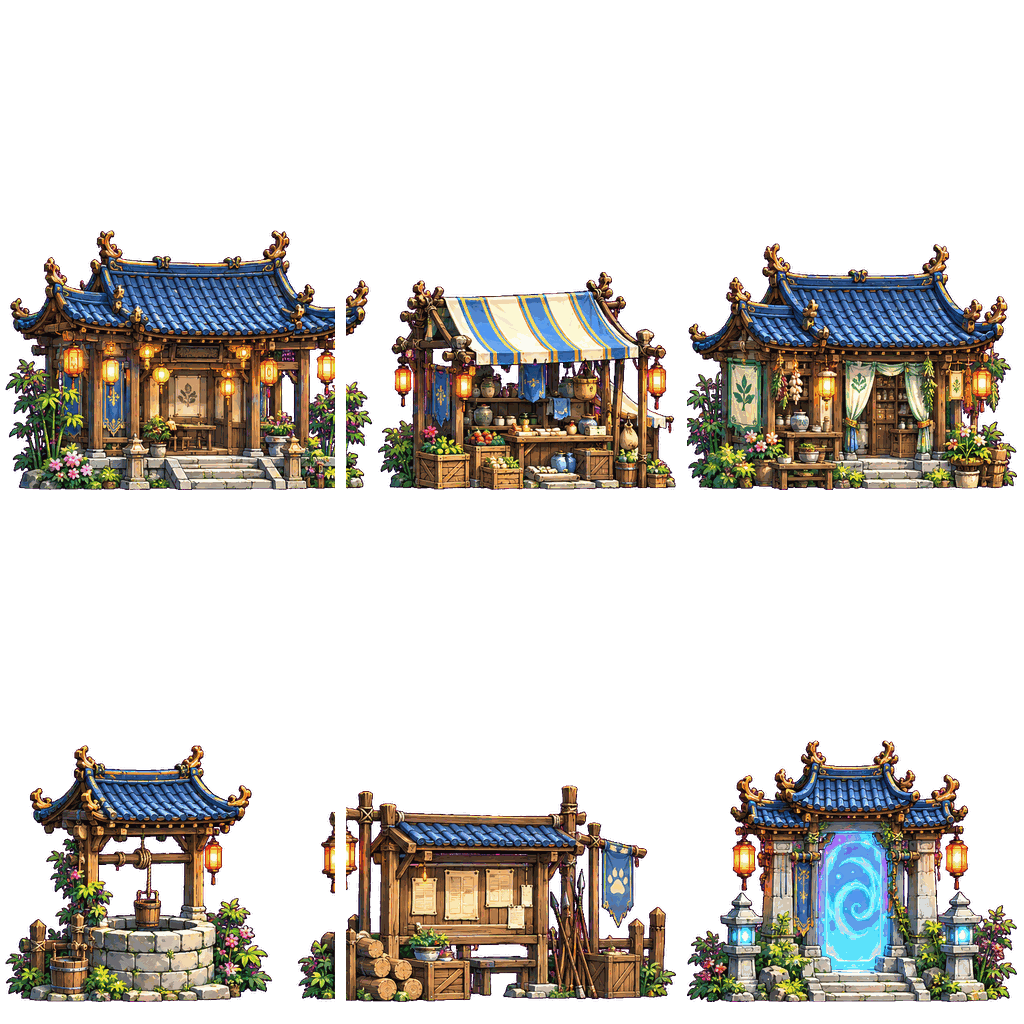
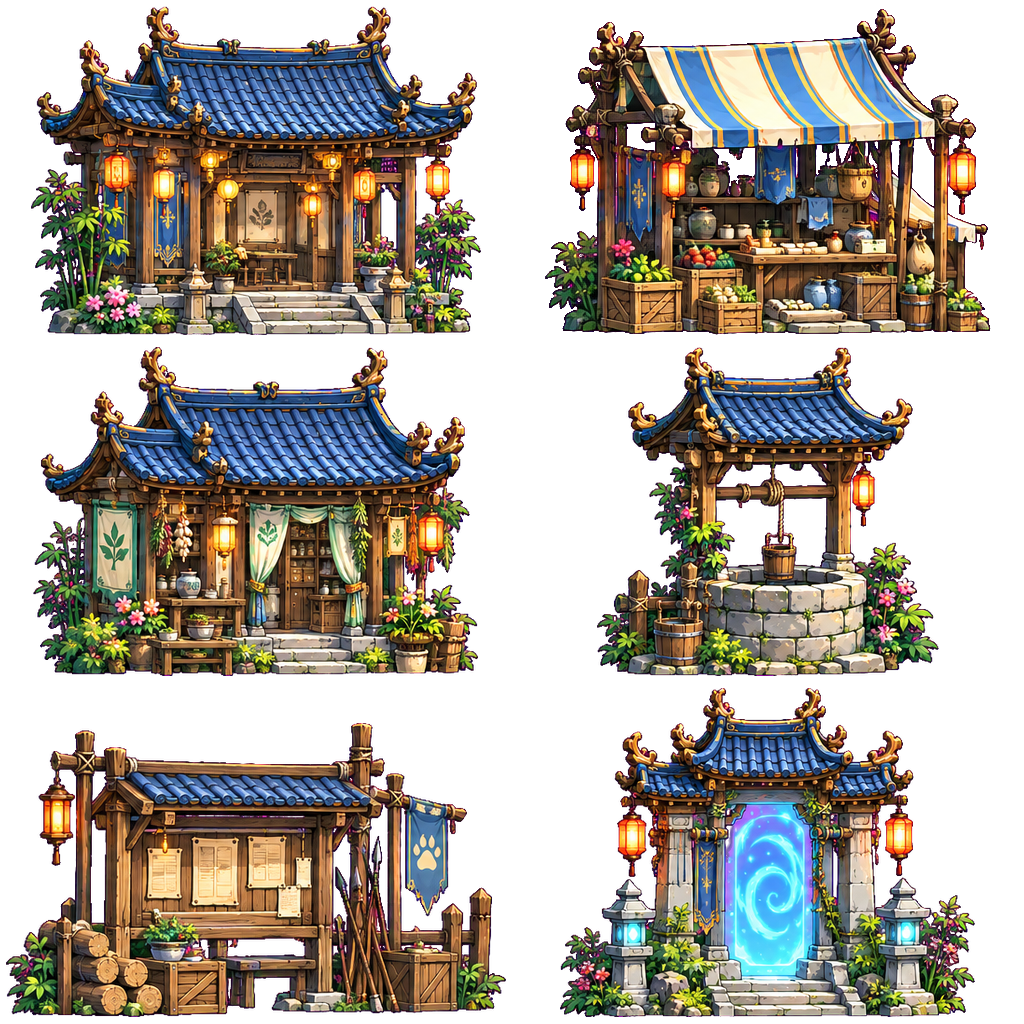
chore: lgo autopilot checkpoint map01a-whole-landmarks - Map01A phục hồi raw và sửa atlas kiến trúc
Status: CONTINUE
Phase:
Next action: Demo đăng nhập–hành trang–HUD theo design gốc, reuse nền cũ và AccountApiClient; giữ source-pose.
Reason: Đã sửa cắt mái/đèn trên đúng raw source và xem Player; không còn blocker source kiến trúc. Chưa hoàn thành goal.

Validation:
- 3 packer tests pass, gồm mái qua biên
- 20 EditMode map pass
- Player 0 error/0 warning
- Q01–Q09 và 38 ảnh thoại/profile × ba tỷ lệ, ảnh đã xem
- No-3D/no-source/frozen sạch

diff --git a/tools/pack_lgo_map01a_landmarks.py b/tools/pack_lgo_map01a_landmarks.py
@@ -5,7 +5,7 @@ import hashlib
 import json
 from collections import deque
 from pathlib import Path
-from PIL import Image, ImageFilter
+from PIL import Image, ImageFilter, ImageDraw, ImageChops
 
 
 def digest(path):
@@ -41,19 +41,63 @@ def remove_noise(image, threshold=8, min_pixels=500):
     return cleaned, removed
 
 
-def pack(source, output):
+def prepare_regions(sheet, regions):
+    if len(regions) != 6:
+        raise ValueError('Exactly six landmark regions are required')
+    coverage = Image.new('L', sheet.size)
+    draw = ImageDraw.Draw(coverage)
+    for index, rect in enumerate(regions):
+        if len(rect) != 4 or any(type(value) is not int for value in rect):
+            raise ValueError('Region must contain four integer coordinates')
+        x0, y0, x1, y1 = rect
+        if not (0 <= x0 < x1 <= sheet.width and 0 <= y0 < y1 <= sheet.height):
+            raise ValueError('Region outside source boundary')
+        for other in regions[:index]:
+            if max(x0, other[0]) < min(x1, other[2]) and max(y0, other[1]) < min(y1, other[3]):
+                raise ValueError('Landmark regions overlap')
+        draw.rectangle((x0, y0, x1-1, y1-1), fill=255)
+        alpha = sheet.crop(rect).getchannel('A').point(lambda value: 255 if value > 8 else 0)
+        bbox = alpha.getbbox()
+        if bbox is None:
+            raise ValueError('Empty landmark region')
+        if bbox[0] == 0 or bbox[1] == 0 or bbox[2] == alpha.width or bbox[3] == alpha.height:
+            raise ValueError('Landmark cut at region boundary; author the whole object, not a fixed grid')
+    significant = sheet.getchannel('A').point(lambda value: 255 if value > 8 else 0)
+    if ImageChops.subtract(significant, coverage).getbbox() is not None:
+        raise ValueError('Landmark region coverage drops source content')
+
+
+def key_magenta(sheet):
+    # Same soft chroma radius as the existing equipment-sheet ingestion tool.
+    # Only ingestion changes alpha; opaque artwork RGB remains untouched here.
+    result = sheet.copy()
+    pixels = []
+    for red, green, blue, alpha in sheet.getdata():
+        distance = ((255-red)**2 + green**2 + (255-blue)**2)**.5
+        keyed = min(alpha, max(0, min(255, round((distance-70)*6))))
+        pixels.append((red, green, blue, keyed) if keyed else (0, 0, 0, 0))
+    result.putdata(pixels)
+    return result
+
+
+def pack(source, output, regions=None, chroma_key=False):
     with Image.open(source) as raw:
         sheet = raw.convert('RGBA')
     if sheet.size != (1536, 1024):
         raise ValueError('Landmark cells require reviewed 1536x1024 source')
+    if chroma_key:
+        sheet = key_magenta(sheet)
+    sheet, removed_noise = remove_noise(sheet)
+    if regions is None:
+        regions = [[i % 3 * 512, i // 3 * 512, (i % 3+1)*512, (i // 3+1)*512] for i in range(6)]
+    prepare_regions(sheet, regions)
     output.mkdir(parents=True, exist_ok=False)
     atlas = Image.new('RGBA', (1024, 1024))
     names = ['social-hall', 'merchant-stall', 'herbal-clinic', 'village-well', 'hunter-post', 'suoi-thanh-minh-portal']
-    parts, removed_noise, changed = [], 0, 0
+    parts, changed = [], 0
     for index, name in enumerate(names):
-        cell = sheet.crop(((index % 3) * 512, (index // 3) * 512, (index % 3 + 1) * 512, (index // 3 + 1) * 512))
-        cell, removed = remove_noise(cell)
-        removed_noise += removed
+        region = regions[index]
+        cell = sheet.crop(region)
         bbox = cell.getchannel('A').point(lambda value:255 if value > 8 else 0).getbbox()
         if bbox is None:
             raise ValueError('Empty landmark cell: ' + name)
@@ -69,12 +113,12 @@ def pack(source, output):
                 changed += 1
             pixels.append((r,g,b,a) if a else (0,0,0,0))
         cell.putdata(pixels)
-        cell.thumbnail((330, 370), Image.Resampling.LANCZOS)
-        left = (index % 3) * 341 + (341-cell.width)//2
-        top = (index // 3) * 512 + 490-cell.height
+        cell.thumbnail((500, 329), Image.Resampling.LANCZOS)
+        left = (index % 2) * 512 + (512-cell.width)//2
+        top = (index // 2) * 341 + 335-cell.height
         atlas.paste(cell, (left, top))
         parts.append({'id':name, 'x':left, 'y':1024-top-cell.height, 'w':cell.width, 'h':cell.height,
-                      'sourceCell':index, 'nativeAspectPreserved':True})
+                      'sourceRect':region, 'sourceContentRect':[bbox[0]+region[0], bbox[1]+region[1], bbox[2]+region[0], bbox[3]+region[1]], 'nativeAspectPreserved':True})
     atlas.save(output/'landmarks-atlas.png', optimize=True)
     review = Image.new('RGBA', atlas.size, '#263945')
     review.alpha_composite(atlas)
@@ -93,7 +137,8 @@ def pack(source, output):
               'source':str(source), 'sourceSha256':digest(source), 'parts':parts, 'layers':layers,
               'atlas':[1024,1024], 'pngBytes':(output/'landmarks-atlas.png').stat().st_size,
               'estimatedBc3Bytes':1024*1024, 'upscaled':False, 'edgePixelsDespill':changed,
-              'detachedNoisePixelsRemoved':removed_noise}
+              'detachedNoisePixelsRemoved':removed_noise, 'sourcePixelCoverage':1,
+              'alphaPolicy':'soft-magenta-radius-70-edge-6' if chroma_key else 'source-alpha'}
     (output/'landmarks-layout.json').write_text(json.dumps(manifest,ensure_ascii=False,indent=2)+'\n')
     print(json.dumps({'count':len(parts),'pngBytes':manifest['pngBytes'],'removedNoise':removed_noise}))
 
@@ -102,5 +147,7 @@ if __name__ == '__main__':
     parser=argparse.ArgumentParser(description=__doc__)
     parser.add_argument('--source',type=Path,required=True)
     parser.add_argument('--output',type=Path,required=True)
+    parser.add_argument('--regions', type=Path, help='JSON array of six source rectangles, reviewed against the source')
+    parser.add_argument('--chroma-key', action='store_true', help='Remove the authored magenta background before region packing')
     args=parser.parse_args()
-    pack(args.source,args.output)
+    pack(args.source,args.output, json.loads(args.regions.read_text()) if args.regions else None, args.chroma_key)

diff --git a/tools/test_pack_lgo_map01a_landmarks.py b/tools/test_pack_lgo_map01a_landmarks.py
@@ -1,0 +1,54 @@
+import json
+import tempfile
+import unittest
+from pathlib import Path
+from PIL import Image, ImageDraw
+from pack_lgo_map01a_landmarks import pack
+
+
+class LandmarkPackingTests(unittest.TestCase):
+    def make_source(self, path):
+        image = Image.new('RGBA', (1536, 1024))
+        draw = ImageDraw.Draw(image)
+        for x, y in ((40, 60), (580, 60), (1060, 60), (40, 600), (580, 600), (1060, 600)):
+            draw.rectangle((x, y, x + 400, y + 300), fill=(40, 80, 100, 255))
+        # The hall roof belongs to the first object but crosses the old 512 boundary.
+        draw.rectangle((430, 80, 545, 130), fill=(220, 170, 70, 255))
+        image.save(path)
+        return image
+
+    def test_implicit_grid_rejects_a_building_cut_at_cell_boundary(self):
+        with tempfile.TemporaryDirectory() as directory:
+            root = Path(directory); source = root / 'source.png'; self.make_source(source)
+            with self.assertRaisesRegex(ValueError, 'boundary'):
+                pack(source, root / 'out')
+
+    def test_authored_regions_keep_complete_roof_and_isolate_merchant(self):
+        with tempfile.TemporaryDirectory() as directory:
+            root = Path(directory); source = root / 'source.png'; image = self.make_source(source)
+            regions = [[0, 0, 560, 510], [560, 0, 1024, 510], [1024, 0, 1536, 510],
+                       [0, 512, 560, 1024], [560, 512, 1024, 1024], [1024, 512, 1536, 1024]]
+            pack(source, root / 'out', regions=regions)
+            manifest = json.loads((root / 'out/landmarks-layout.json').read_text())
+            hall, merchant = manifest['parts'][:2]
+            self.assertEqual(hall['sourceRect'], regions[0])
+            self.assertGreater(hall['sourceContentRect'][2], 512)
+            self.assertGreaterEqual(merchant['sourceContentRect'][0], 580)
+            self.assertEqual(manifest['sourcePixelCoverage'], 1)
+            with Image.open(root / 'out/landmarks-atlas.png') as atlas:
+                def has_roof_gold(part):
+                    x, y, w, h = (part[key] for key in ('x', 'y', 'w', 'h'))
+                    pixels = atlas.crop((x, atlas.height-y-h, x+w, atlas.height-y)).convert('RGBA').getdata()
+                    return any(r > 180 and g > 130 and b < 110 and a > 200 for r, g, b, a in pixels)
+                self.assertTrue(has_roof_gold(hall), 'The crossing roof must survive into the packed pixels')
+                self.assertFalse(has_roof_gold(merchant), 'The merchant must not inherit its neighbour’s roof')
+
+    def test_regions_must_not_overlap_or_drop_source_content(self):
+        with tempfile.TemporaryDirectory() as directory:
+            root = Path(directory); source = root / 'source.png'; self.make_source(source)
+            with self.assertRaisesRegex(ValueError, 'overlap|coverage|boundary'):
+                pack(source, root / 'out', regions=[[0, 0, 550, 512]] * 6)
+
+
+if __name__ == '__main__':
+    unittest.main()

diff --git a/docs/execution/NEXT-ACTION.md b/docs/execution/NEXT-ACTION.md
@@ -6,11 +6,11 @@
 
 Hoàn thiện Map01A theo contract Q01–Q09 hiện có. Đổi class bằng `F` hoặc nút trong hành trang đã kiểm đủ Pháp/Võ/Kiếm/Cơ/Linh trên một actor. Pháp chỉ có nam Lv1 v7; Võ nam Lv1/Lv10; giới/cấp chưa có không được rơi về renderer cũ. Các pack vẫn REVIEW_ONLY, không suy diễn rằng toàn bộ design/pose đã nghiệm thu.
 
-Player hiện hành: `build/map01a-playable-hud-player/LinhGioiOnline.app`; mở qua `tools/launch_lgo_source_pose_review.py` để giữ đủ năm class. Nút review mode/base cũ không quay lại khi đóng hành trang, phím C không chuyển renderer nguồn đã chọn; F/G vẫn giữ. HP/MP/class/giới trên HUD, hai action đáy chung hàng flex, nhãn NPC không đè mặt trong thoại. Không đổi art/base/pose/camera/scale. Nút giới thiếu pack bị khóa; PC đã kiểm C/F/scroll, chưa có ảnh xác nhận click nút giới vì Player đã thoát sạch trước ảnh sau click.
+Player hiện hành: `build/map01a-restored-landmarks-player/LinhGioiOnline.app`; mở bằng `tools/launch_lgo_source_pose_review.py`, giữ catalog đủ năm class, không bật renderer cũ. Kế thừa HUD/hội thoại ở `b930acea`/`f7d5ba11`; giữ body/pose/camera/scale. Lỗi mái/đèn cắt sang ô khác đã sửa bằng raw source phục hồi, không imagegen lại.
 
-Gate gần nhất: 67 EditMode, no-3D/no-source/frozen sạch; build 0 error/13 warning. Evidence `build/map01a-playable-hud-player/quest-hud-reviewed/{pc,tablet,mobile}`: 18 ảnh tuyến Q01–Q09 + 38 ảnh thoại/profile, đã xem ảnh. Hội thoại sáu NPC nhận việc ở lựa chọn cuối, quay lại không nhận tiếp tế lặp; giữ checkpoint `f7d5ba11`.
+Gate: 3 packer test + 20 EditMode map; build 0 error/0 warning. Evidence `build/map01a-restored-landmarks-player/quest-capture/{pc,tablet,mobile}` có Q01–Q09 và 38 ảnh thoại/profile; đã xem cả raw sheet và Player. Báo cáo `build/map01a-source-recovery-audit/repair-report.json`. Giới hạn: local playable slice, chưa nghiệm thu toàn bộ character/production hoặc thiết bị thật.
 
-Next: theo `docs/design/LGO-MAP01A-PLAYABLE-UI-v0.1.md`, tiếp tục phần map có thể sửa an toàn và design/demo các màn sau map. Atlas kiến trúc còn lỗi, blocker source dưới đây. Đăng nhập chưa được nối vào entry 2D; asset Login V3B không còn trên branch, dù helper layout/API vẫn có. Không dựng backend/auth mới; cần demo cụ thể trước khi nối. Hành trang skin/inspect cần header/footer cố định và chỉ body cuộn, thay panel review hiện hành trong batch màn hình được owner yêu cầu. Không mở lại vòng redraw character hoặc tự claim map xong.
+Next: tạo demo cụ thể màn đăng nhập và hành trang/HUD theo `docs/design/LGO-MAP01A-PLAYABLE-UI-v0.1.md` và reference gốc, sau đó nối UI vào entry hiện hành. Đăng nhập chưa nối vào entry 2D, nhưng còn `AccountApiClient.LoginDevAsync`; giữ dev-key prototype, không auth mới/frozen contract. Nền login đã tìm thấy tại `~/.codex/generated_images/01a0748f-76a8-7be2-bd55-33fe5e41c403/exec-2c5015b0-417f-4d01-91d3-b1942f3901e4.png`, phải xem ảnh trước reuse; không bật fallback V3B ngẫu nhiên. Hành trang cần header/footer cố định, chỉ body cuộn, card/inspect dựa catalog thật. Không mở lại redraw character.
 
 ## Yêu cầu tiếp nối của owner — 2026-09-12
 
@@ -18,7 +18,7 @@ Sau khi xử lý map, thiết kế và triển khai màn đăng nhập, hành tr
 
 ## Current blocker
 
[1 lines of base64/hex data omitted]
+Không còn blocker source kiến trúc: đã phục hồi raw magenta sheet (không phải alpha cũ byte-identical) từ generated_images; raw và regions được lưu external tại `map-01a-cong-dong-lam/runtime-source-recovery/landmarks-v1`. Không dùng lại crop grid 512. Nguồn PNG gốc nằm ngoài Unity; runtime chỉ có atlas đã pack và provenance. Các màn đăng nhập/hành trang còn cần demo và implementation, không phải đã hoàn thành.
 
 ## Evidence và giới hạn
 

diff --git a/docs/execution/PROJECT-STATE.md b/docs/execution/PROJECT-STATE.md
@@ -1,3 +1,11 @@
+## Hiện hành — phục hồi sáu kiến trúc Map01A từ raw source — 2026-09-12
+
+`CONTINUE`. Blocker atlas đã được xử lý: raw sheet gốc còn trong `~/.codex/generated_images/01a0882c-6082-7b80-8ddd-3e7d7657a5e5/exec-44fa9278-3d6d-44f2-9098-82cd0d08ed7a.png`. Bản sao/provenance/regions tại external selected source `map-01a-cong-dong-lam/runtime-source-recovery/landmarks-v1`. Không tái tạo art; bỏ chia ô 512, tách theo dải alpha rỗng giữa từng công trình. Packer chặn cắt xuyên object, crop chồng nhau và bỏ sót nội dung. Đã xem raw/source pack và Player: mái nhà, gian hàng, giếng và đèn Lão Trần liền đúng công trình.
+
+Ba test packer pass (có RED lỗi mái sang ô kế bên), 20 EditMode map pass; Player build 0 error/0 warning. Q01–Q09 + 38 ảnh thoại/profile chạy đủ PC/tablet/mobile; đã xem ảnh cuối `build/map01a-restored-landmarks-player/quest-capture/`. Atlas vẫn 1024²/BC3 ước tính 1 MiB; PNG 1.637.421 byte so với 1.003.688 trước, nhưng build cùng target tăng 1.184 byte theo report. Giữ nguyên actor/pose/body/camera/scale và mọi PNG khác. No-3D/no-source/frozen sạch.
+
+Next: demo đăng nhập–hành trang–HUD theo yêu cầu owner và `docs/design/LGO-MAP01A-PLAYABLE-UI-v0.1.md`, rồi nối vào entry 2D hiện hành. Nền Linh Thành cũ cũng còn ở raw generated path trong REFERENCE-NOTES; kiểm ảnh trước reuse. Chưa hoàn tất goal/character art, production auth hoặc Map01B. Player mới `build/map01a-restored-landmarks-player/LinhGioiOnline.app`, mở bằng launcher catalog đủ năm class.
+
 ## Hiện hành — Map01A HUD chơi, giữ source-pose đã chọn — 2026-09-12
 
 `CONTINUE`. Đã chặn dãy nút mode/base legacy xuất hiện lại khi đóng hành trang ở source-pose, chặn phím C chuyển mode; giữ F/G và 10 món dùng state cũ đã audit. HUD có HP/MP/class/giới; nút đổi giới trong hành trang chỉ bật khi có đủ pack. Nhãn POSE THỬ OnGUI nhường HUD Map01A, không đổi phân loại REVIEW_ONLY. Nhãn NPC lên trên đầu và ẩn trong thoại; nút hành trang/tương tác dùng một hàng flex để nhãn dài không đè nhau. Không sửa PNG/body/pose/camera/scale.

diff --git a/docs/execution/TASK-LEDGER-ROLLUP.md b/docs/execution/TASK-LEDGER-ROLLUP.md
@@ -1,3 +1,11 @@
+## Hiện hành — phục hồi sáu kiến trúc Map01A từ raw source — 2026-09-12
+
+`CONTINUE`. Blocker atlas đã được xử lý: raw sheet gốc còn trong `~/.codex/generated_images/01a0882c-6082-7b80-8ddd-3e7d7657a5e5/exec-44fa9278-3d6d-44f2-9098-82cd0d08ed7a.png`. Bản sao/provenance/regions tại external selected source `map-01a-cong-dong-lam/runtime-source-recovery/landmarks-v1`. Không tái tạo art; bỏ chia ô 512, tách theo dải alpha rỗng giữa từng công trình. Packer chặn cắt xuyên object, crop chồng nhau và bỏ sót nội dung. Đã xem raw/source pack và Player: mái nhà, gian hàng, giếng và đèn Lão Trần liền đúng công trình.
+
+Ba test packer pass (có RED lỗi mái sang ô kế bên), 20 EditMode map pass; Player build 0 error/0 warning. Q01–Q09 + 38 ảnh thoại/profile chạy đủ PC/tablet/mobile; đã xem ảnh cuối `build/map01a-restored-landmarks-player/quest-capture/`. Atlas vẫn 1024²/BC3 ước tính 1 MiB; PNG 1.637.421 byte so với 1.003.688 trước, nhưng build cùng target tăng 1.184 byte theo report. Giữ nguyên actor/pose/body/camera/scale và mọi PNG khác. No-3D/no-source/frozen sạch.
+
+Next: demo đăng nhập–hành trang–HUD theo yêu cầu owner và `docs/design/LGO-MAP01A-PLAYABLE-UI-v0.1.md`, rồi nối vào entry 2D hiện hành. Nền Linh Thành cũ cũng còn ở raw generated path trong REFERENCE-NOTES; kiểm ảnh trước reuse. Chưa hoàn tất goal/character art, production auth hoặc Map01B. Player mới `build/map01a-restored-landmarks-player/LinhGioiOnline.app`, mở bằng launcher catalog đủ năm class.
+
 ## Hiện hành — Map01A HUD chơi, giữ source-pose đã chọn — 2026-09-12
 
 `CONTINUE`. Đã chặn dãy nút mode/base legacy xuất hiện lại khi đóng hành trang ở source-pose, chặn phím C chuyển mode; giữ F/G và 10 món dùng state cũ đã audit. HUD có HP/MP/class/giới; nút đổi giới trong hành trang chỉ bật khi có đủ pack. Nhãn POSE THỬ OnGUI nhường HUD Map01A, không đổi phân loại REVIEW_ONLY. Nhãn NPC lên trên đầu và ẩn trong thoại; nút hành trang/tương tác dùng một hàng flex để nhãn dài không đè nhau. Không sửa PNG/body/pose/camera/scale.

diff --git a/docs/art/LGO-MAP01A-ASSET-OPTIMIZATION-LESSONS.md b/docs/art/LGO-MAP01A-ASSET-OPTIMIZATION-LESSONS.md
@@ -1,3 +1,11 @@
+## Không chia sheet theo ô khi object vượt biên — 2026-09-12
+
+Mái social-hall vượt x=512, đèn hunter-post lấn ô well; grid cố định đã tạo mảnh lẻ trong Player. Raw gốc còn ở generated_images dù alpha trung gian trong build đã mất: tìm theo thời điểm + contact sheet thay vì chỉ so SHA alpha cũ. Phục hồi raw và provenance ngoài repo tại selected source `map-01a-cong-dong-lam/runtime-source-recovery/landmarks-v1`.
+
+Packer landmarks nay nhận sáu source rect có biên trong cột alpha rỗng; chặn object chạm biên, overlap và thiếu coverage sau key/noise cleanup. `sourceContentRect` ghi cả bbox đã trim theo tọa độ raw, không mất dữ kiện khi pack. Test kiểm màu mái xuất hiện trong atlas hall và không xuất hiện trong merchant. Không tuyên bố alpha mới byte-identical với file trung gian đã mất.
+
+Atlas đổi từ 3×2 sang 2×3 ô để tăng số pixel công trình trong cùng 1024², không upscale và không tăng ước tính BC3 1 MiB. PNG tăng 1.003.688→1.637.421 byte; build cùng target đo tăng 1.184 byte (183.190.682→183.191.866). Không đồng nhất PNG với GPU/build. Player đã xem mái/đèn/giếng liền, Q01–Q09 vẫn chạy trên ba tỷ lệ; evidence `build/map01a-restored-landmarks-player/quest-capture/`.
+
 ## Mặt đi bộ phải nằm trên ảnh, không phải mép rect — 2026-09-12
 
 Terrain cũ gán đỉnh Sprite.bounds = GroundY, nhưng đá/rêu/cỏ/cầu có padding và phối cảnh khác nhau, làm chân trông lơ lửng dù test bounds xanh. `modules-layout.json` hiện khai báo `walkSurfaceFromTop` cho bốn part (20/28/62/18 px); renderer dịch terrain đúng độ lệch source-pixel theo world height. Mọi instance cùng part dùng chung mốc, không chỉnh actor/camera/scale, không sửa pixel atlas.

diff --git a/docs/design/LGO-MAP01A-PLAYABLE-UI-v0.1.md b/docs/design/LGO-MAP01A-PLAYABLE-UI-v0.1.md
@@ -15,6 +15,6 @@ Trạng thái: thiết kế triển khai theo phạm vi owner, chưa nghiệm th
 
 Đăng nhập theo `LOGIN-GATE-ENTRY-VISUAL-SPEC-v1.md`: cổng/nền, title, vùng chọn máy chủ/tài khoản thử và CTA vào thế giới. Audit thấy `RuntimeLoginResponsiveLayout` còn nhưng entry 2D không gọi nó, asset Login V3B cũng không có trên branch; không coi helper tồn tại là màn đã hoạt động. Reuse `AccountApiClient.LoginDevAsync` khi nối luồng, không tự mở production auth/đăng ký hoặc sửa contract. Phải tạo demo cụ thể trước khi nối.
 
-Hành trang tiếp theo cần card/inspect món, trạng thái đang mặc/tháo, cấp có thật và nút đóng rõ; giữ catalog/equip đã audit. HUD tiếp theo chỉ dùng hành vi hiện có; chưa thêm chat/guild/shop/minimap tương tác giả. Lỗi atlas kiến trúc thiếu source vẫn là gate art chưa đạt, độc lập với công việc UI.
+Hành trang tiếp theo cần card/inspect món, trạng thái đang mặc/tháo, cấp có thật và nút đóng rõ; giữ catalog/equip đã audit. HUD tiếp theo chỉ dùng hành vi hiện có; chưa thêm chat/guild/shop/minimap tương tác giả. Lỗi atlas kiến trúc đã sửa sau khi phục hồi raw source ngày 2026-09-12; gate sửa cắt mảnh có Player evidence. Đây chưa phải nghiệm thu toàn bộ sản phẩm.
 
 Tham khảo: [Unity 6 UI Document](https://docs.unity3d.com/6000.0/Documentation/Manual/UIE-create-ui-document-component.html) mô tả nhiều document dùng chung panel/focus. Áp dụng ở đây là tái sử dụng panel hiện hành và điều khiển theo trạng thái màn, không nhân UI riêng theo class hoặc tỷ lệ màn hình.
